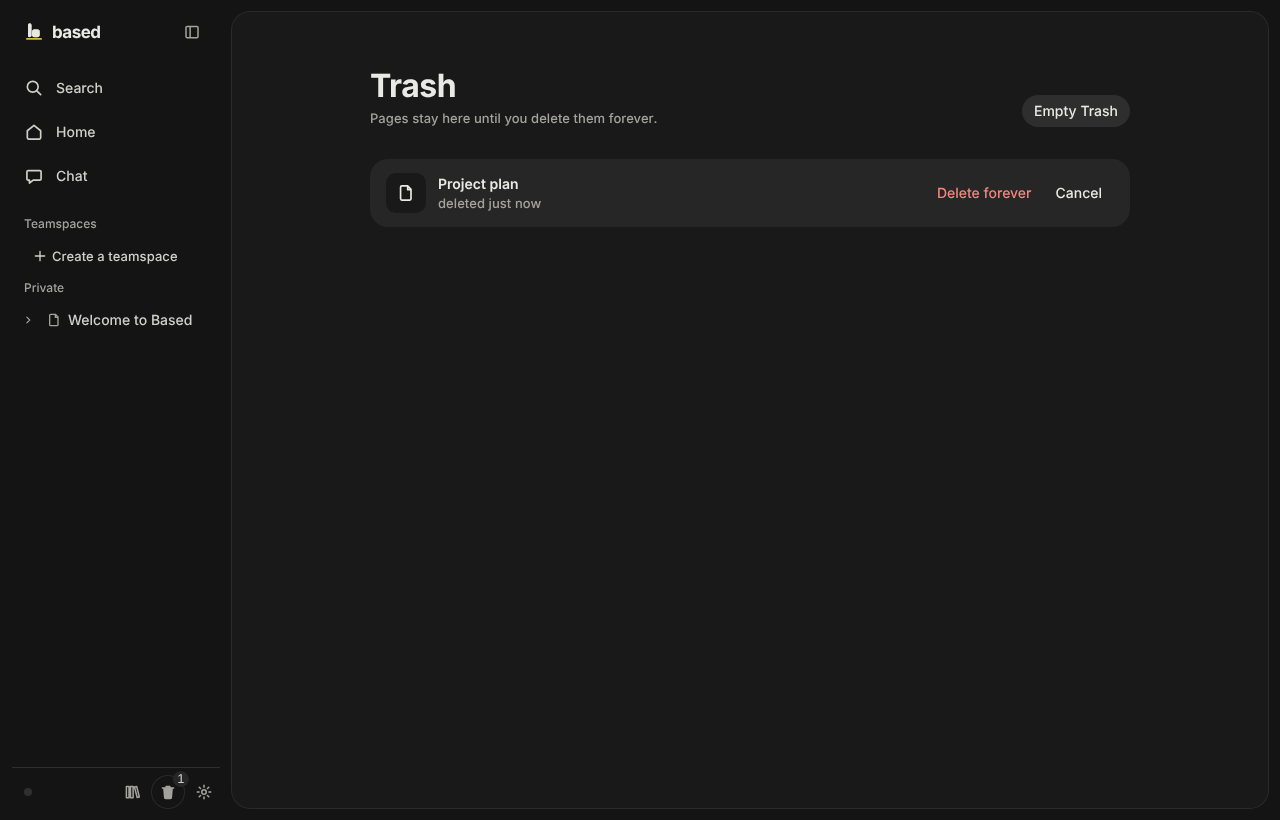
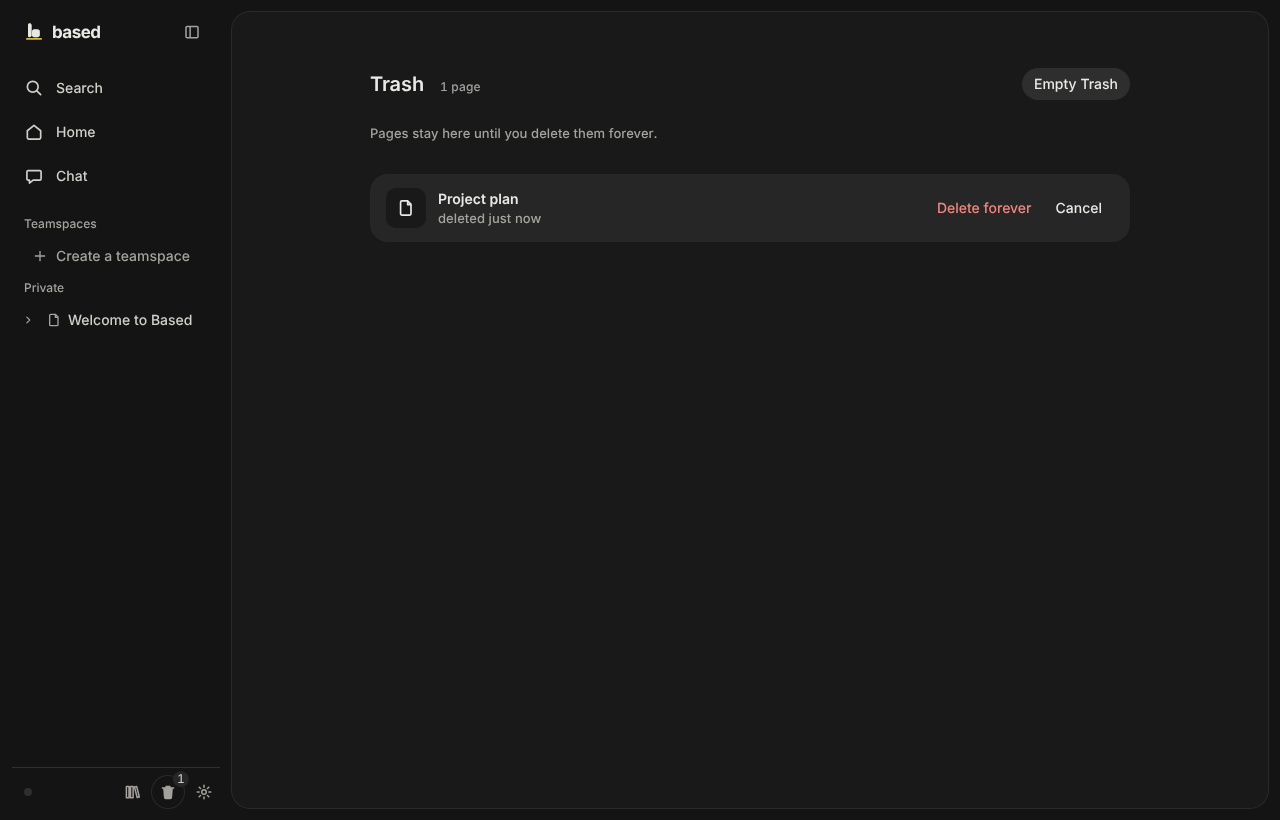
BSD-530: Design · Element-System 6: Köpfe der App-Screens (Trash, Graph, Einstellungen)
Muster aus elements.md Abschnitt 4 (Kopf eines App-Screens), wie schon Library und Meetings:
- Trash: Titel heading (20/600) statt title (32) + Anzahl „n pages“ in meta daneben, rechts „Empty Trash“; der
  Erklärsatz steht darunter.
- Graph: Zeile 1 Titel + Anzahl (meta), Zeile 2 der Umschalter Pages · Graph · Meetings (vorher davor).
- Einstellungen: Seitentitel heading 20/600 statt 32, Abschnitte section 15/600 (ohne negative Sperrung unter 20 px).
- Neuer Spec e2e/app-heads.spec.ts (hell/dunkel, Chromium + WebKit), Fotos web-elements-v11-head-*.png.

Claude-Session: https://claude.ai/code/session_01F33L4kf253yrX1rLPiQdTN

diff --git a/apps/web/e2e/app-heads.spec.ts b/apps/web/e2e/app-heads.spec.ts
@@ -1,0 +1,46 @@
+import { expect, test, type Page } from "@playwright/test";
+
+// BSD-530 (Element-System 6, docs/design/elements.md Abschnitt 4 „Kopf eines App-Screens“): Zeile 1 Titel `heading`
+// (20 / 600) und daneben die Anzahl in `meta`, rechts die Hauptaktion; Zeile 2 Umschalter, Filter, Suchfeld (md).
+// Der große Titel (32) gehört nur eigenen Seiten und Datenbanken.
+
+async function head(page: Page) {
+  const h1 = page.locator("main h1, [data-testid=library] h1, [data-testid=graph] h1, .content h1, .settings-page h1").first();
+  await expect(h1).toBeVisible();
+  return h1.evaluate((el) => {
+    const s = getComputedStyle(el);
+    const r = el.getBoundingClientRect();
+    const count = el.parentElement?.querySelector<HTMLElement>("[data-head-count]");
+    const c = count ? getComputedStyle(count) : undefined;
+    const cr = count?.getBoundingClientRect();
+    return {
+      size: s.fontSize, weight: s.fontWeight,
+      count: count ? { size: c!.fontSize, sameLine: Math.abs((cr!.top + cr!.height / 2) - (r.top + r.height / 2)) < r.height / 2 + 2 } : undefined,
+    };
+  });
+}
+
+for (const theme of ["light", "dark"] as const) {
+  test(`Köpfe der App-Screens: Titel 20/600, Anzahl in meta daneben (${theme})`, async ({ page, browserName }) => {
+    await page.addInitScript((t) => localStorage.setItem("based.appearance", JSON.stringify({ theme: t })), theme);
+    await page.setViewportSize({ width: 1280, height: 820 });
+    await page.goto("/");
+    await expect(page.getByTestId("based-root")).toHaveAttribute("data-ready", "");
+    const wrong: string[] = [];
+    for (const [hash, name, withCount] of [["#library", "Library", true], ["#trash", "Trash", true], ["#graph", "Graph", true], ["#prefs-my-settings", "Settings", false]] as const) {
+      await page.evaluate((h) => { location.hash = h; }, hash);
+      await page.waitForTimeout(400);
+      const h = await head(page);
+      if (h.size !== "20px" || h.weight !== "600") wrong.push(`${name}: Titel ${h.size}/${h.weight}`);
+      if (withCount) {
+        if (!h.count) wrong.push(`${name}: keine Anzahl`);
+        else {
+          if (h.count.size !== "12px") wrong.push(`${name}: Anzahl ${h.count.size}`);
+          if (!h.count.sameLine) wrong.push(`${name}: Anzahl nicht neben dem Titel`);
+        }
+      }
+      if (browserName === "chromium" && name !== "Library") await page.screenshot({ path: `../../docs/design/screens/web-elements-v11-head-${name.toLowerCase()}-${theme}.png` });
+    }
+    expect(wrong).toEqual([]);
+  });
+}

diff --git a/apps/web/src/screens/graph.css b/apps/web/src/screens/graph.css
@@ -5,8 +5,9 @@
 .gx-canvas canvas { position: absolute; inset: 0; width: 100%; height: 100%; display: block; touch-action: none; cursor: grab; }
 .gx-canvas canvas:active { cursor: grabbing; }
 .gx-canvas canvas.pointing { cursor: pointer; }
-.gx-title { position: absolute; left: var(--space-5); top: var(--space-4); display: flex; gap: var(--space-3); align-items: baseline; z-index: 1; pointer-events: none; }
-.gx-title .t-desc { color: var(--muted); }
+.gx-title { position: absolute; left: var(--space-5); top: var(--space-4); display: flex; flex-wrap: wrap; column-gap: var(--space-3); row-gap: var(--space-2); align-items: baseline; z-index: 1; pointer-events: none; max-width: calc(100% - var(--space-8)); }
+.gx-title .gx-switch { flex-basis: 100%; display: flex; pointer-events: auto; }
+.gx-title .t-meta { color: var(--muted); font-variant-numeric: tabular-nums; }
 .gx-zoom {
   position: absolute; right: var(--space-4); bottom: var(--space-4); z-index: 1; display: flex; gap: var(--space-1); align-items: center;
   background: var(--bg); border-radius: var(--radius-pill); box-shadow: var(--shadow-float); padding: var(--space-1);
@@ -47,6 +48,5 @@
 .gx-side, .gx-side h2, .gx-title h1 { color: var(--ink); }
 .gx-result { color: var(--ink); }
 /* BSD-281: Reiter Pages/Graph oben links (der Titelbereich lässt sonst Klicks zur Fläche durch) */
-.gx-title > :first-child:not(h1) { pointer-events: auto; align-self: center; }
 /* BSD-238 Teil 3: Fläche per Tastatur bedienbar – sichtbarer Fokusrahmen */
 .gx-canvas canvas:focus-visible { outline: 2px solid var(--focus-ring); outline-offset: -2px; }

diff --git a/apps/web/src/screens/Trash.tsx b/apps/web/src/screens/Trash.tsx
@@ -32,9 +32,10 @@ export function Trash({ client, state, onOpenPage }: { client: StoreClient; stat
     <div className="content">
       <div className="column">
         <header className="trash-head">
-          <div>
-            <h1 className="t-title">Trash</h1>
-            <p className="t-desc" style={{ marginTop: "var(--space-1)" }}>{forever ? "Pages stay here until you delete them forever." : "Pages stay here until the owner deletes them."}</p>
+          {/* BSD-530: Kopf eines App-Screens – Titel heading + Anzahl in meta, rechts die Hauptaktion */}
+          <div className="trash-title">
+            <h1 className="t-heading">Trash</h1>
+            <p className="t-meta" data-head-count="" data-testid="trash-count">{entries.length.toLocaleString("en-US")} {entries.length === 1 ? "page" : "pages"}</p>
           </div>
           {emptying !== undefined ? (
             <span className="t-desc" role="status" data-testid="trash-emptying">Deleting {emptying} {emptying === 1 ? "page" : "pages"} forever…</span>
@@ -49,6 +50,7 @@ export function Trash({ client, state, onOpenPage }: { client: StoreClient; stat
             )
           ) : null}
         </header>
+        <p className="t-desc trash-hint">{forever ? "Pages stay here until you delete them forever." : "Pages stay here until the owner deletes them."}</p>
         {entries.length === 0 ? (
           <p className="t-desc">The Trash is empty.</p>
         ) : (

diff --git a/apps/web/src/screens/settings/settings.css b/apps/web/src/screens/settings/settings.css
@@ -10,7 +10,11 @@
 .settings-nav { background: var(--sidebar); }
 .settings-nav-head { padding-inline: var(--space-3); text-transform: uppercase; letter-spacing: 0.06em; font-size: var(--type-meta-size); }
 /* Seitentitel und Abschnitte in der Kopfschrift (Charakter wie Seitentitel). */
-.settings-page h1, .settings-page h2 { font-family: var(--font-head); letter-spacing: var(--tracking-title); }
+.settings-page h1, .settings-page h2 { font-family: var(--font-head); }
+/* BSD-530: Kopf eines App-Screens (elements.md, Abschnitt 4) – Titel heading 20/600, Abschnitte section 15/600;
+   der große Titel (32) gehört nur Seiten und Datenbanken. */
+.settings-page h1 { font-size: var(--type-heading-size); font-weight: var(--type-heading-weight); line-height: var(--type-heading-leading); letter-spacing: var(--type-heading-tracking); }
+.settings-page h2 { font-size: var(--type-section-size); font-weight: var(--type-section-weight); line-height: var(--type-section-leading); letter-spacing: var(--type-section-tracking); }
 .settings-page { max-width: var(--page-measure); margin-inline: auto; }
 .settings-missing { border: 1px dashed var(--control-border); }
 .kit { max-width: var(--page-measure); margin-inline: auto; }

diff --git a/apps/web/src/screens/Graph.tsx b/apps/web/src/screens/Graph.tsx
@@ -379,11 +379,12 @@ export function Graph({ client, state, onOpenPage, onSwitch }: Props) {
     <div className="gx" data-testid="graph">
       <section className="gx-stage" aria-label="Page graph">
         <div className="gx-title">
-          {onSwitch ? <LibraryTabs value="graph" onNavigate={onSwitch} /> : null}
+          {/* BSD-530: Zeile 1 Titel + Anzahl (meta), Zeile 2 Umschalter */}
           <h1 className="t-heading">Graph</h1>
-          <span className="t-desc" role="status" data-testid="graph-stats">
+          <span className="t-meta" role="status" data-testid="graph-stats" data-head-count="">
             {result === undefined ? (failed ? `Couldn't build the graph: ${failed}` : "Building…") : `${count(nodes, "page")} · ${count(edges, "link")}${cut ? ` of ${result.totalNodes.toLocaleString("en-US")}` : ""}`}
           </span>
+          {onSwitch ? <span className="gx-switch"><LibraryTabs value="graph" onNavigate={onSwitch} /></span> : null}
         </div>
         <div className="gx-zoom" role="group" aria-label="Zoom">
           <IconButton label="Zoom in" icon={<Icon name="plus" size={16} />} onClick={() => zoomBy(1.4)} />

diff --git a/apps/web/src/styles.css b/apps/web/src/styles.css
@@ -430,7 +430,10 @@ button.row:hover, a.row:hover { background: var(--bg); }
 .block-media { background: var(--surface-soft); border-radius: var(--radius-sm); padding: var(--space-3) var(--space-4); }
 .mention { border: 0; background: transparent; padding: 0; color: var(--ink); text-decoration: underline; text-decoration-color: var(--line); }
 .empty-page { padding: var(--space-2) 0; }
-.trash-head { display: flex; align-items: flex-end; gap: var(--space-4); justify-content: space-between; flex-wrap: wrap; }
+.trash-head { display: flex; align-items: center; gap: var(--space-4); justify-content: space-between; flex-wrap: wrap; }
+.trash-title { display: flex; align-items: baseline; gap: var(--space-4); }
+.trash-title .t-meta { font-variant-numeric: tabular-nums; }
+.trash-hint { margin-top: calc(-1 * var(--space-2)); }
 .trash-head .actions { display: flex; gap: var(--space-2); }
 .trash-more { display: flex; align-items: center; gap: var(--space-2); }
 .group .row .btn { flex: none; }

diff --git a/apps/web/src/screens/Library.tsx b/apps/web/src/screens/Library.tsx
@@ -201,7 +201,7 @@ export function Library({ client, state, onOpenPage, onSwitch }: Props) {
     <div className="lib" data-testid="library" data-count={rows.length} data-loaded={items ? "" : undefined}>
       <header className="lib-head">
         <h1 className="t-heading">Library</h1>
-        <p className="t-meta" role="status" aria-live="polite" data-testid="library-count">
+        <p className="t-meta" role="status" aria-live="polite" data-testid="library-count" data-head-count="">
           {items === undefined ? "Loading…" : filtered ? `${rows.length.toLocaleString("en-US")} of ${total.toLocaleString("en-US")} items` : `${total.toLocaleString("en-US")} ${total === 1 ? "item" : "items"}`}
           {notice ? ` · ${notice}` : ""}
         </p>
